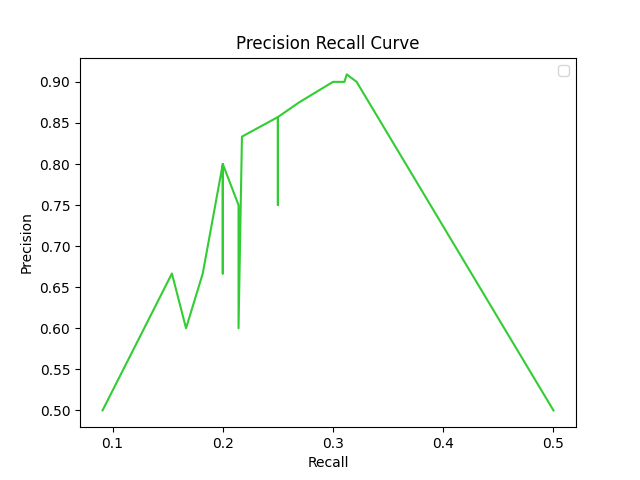
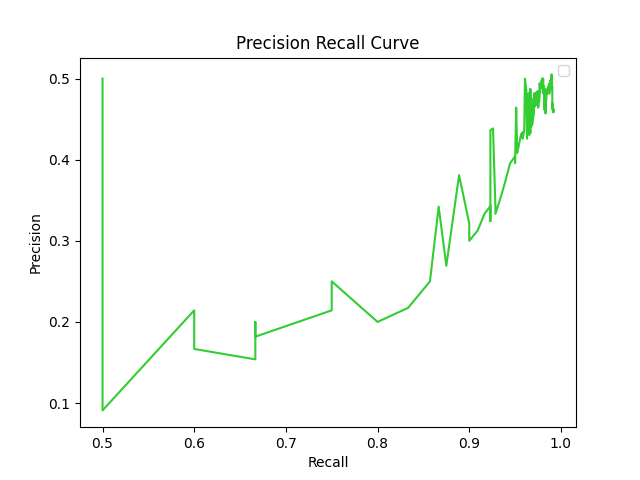
cleaned code and updated README.md

diff --git a/main.py b/main.py
@@ -29,8 +29,9 @@ def save_plot(img, filename):
     for ix, image in enumerate(images):
         ax = plt.subplot(int("11" + str(ix + 1)))
         ax.imshow(image)
-
-    plt.savefig(f'data/test_computed/{filename}')
+    if not os.path.isdir(args.dest):
+        os.makedirs(args.dest)
+    plt.savefig(f'{args.dest}/{filename}')
     plt.close()
 
 
@@ -94,6 +95,7 @@ def viola_jones(img, gray, left=True, right=True):
             cv2.rectangle(img, (x, y), (x + w, y + h), (0, 255, 0), 2)
             predicted["left"].append([x, y, x + w, y + h])
             cv2.putText(img, 'Left ear', (x, y - 10), cv2.FONT_HERSHEY_SIMPLEX, 0.3, (0, 255, 0), 1)
+
     if right:
         right_ear_cascade = cv2.CascadeClassifier('haarcascades/haarcascade_mcs_rightear.xml')
         right_ears = right_ear_cascade.detectMultiScale(gray, params["right"]["scale_step"],
@@ -148,7 +150,7 @@ def compare(img, annot_coords, predicted_coords):
 
 def plot_p_r(precision, recall):
     plt.title("Precision Recall Curve")
-    plt.plot(precision, recall, '-', color='limegreen')
+    plt.plot(recall, precision, '-', color='limegreen')
     plt.xlabel("Recall")
     plt.ylabel("Precision")
     plt.legend()
@@ -166,8 +168,7 @@ def run_on_miltiple(pth):
     global precisions, recalls, calculations
     for filename in os.listdir(pth):
         (filename, img, gray) = read_image("/".join([pth, filename]))
-
-        path_annot = f"data/testannot_rect/{filename}"
+        path_annot = f"{args.annot}/{filename}"
         (filename_annot, img_annot, gray_annot) = read_image(path_annot)
 
         annot_coords = get_bounding_boxes(img_annot)
@@ -178,12 +179,16 @@ def run_on_miltiple(pth):
         iou_scores = compare(img, annot_coords, predicted_coords)
         iou_scores_combined += iou_scores
         save_plot(img, filename)
-        precision = tp / (fp + tp)
+        if (fp + tp) == 0:
+            precision = 0
+        else:
+            precision = tp / (fp + tp)
+
         recall = tp / (fn + tp)
-        print(precision, recall)
         calculations.append((precision, recall))
         precisions.append(precision)
         recalls.append(recall)
+        print("Precision:", precision, "Recall:", recall)
 
     return iou_scores_combined
 
@@ -193,7 +198,7 @@ def run_on_one(pth, capture=False):
         capture_image()
     (filename, img, gray) = read_image(pth)
 
-    path_annot = f"data/testannot_rect/{filename}"
+    path_annot = f"{args.annot}/{filename}"
     (filename_annot, img_annot, gray_annot) = read_image(path_annot)
 
     annot_coords = get_bounding_boxes(img_annot)
@@ -248,26 +253,28 @@ params = {
     "left": {'scale_step': 1.0149, 'size': 3},
     "right": {'scale_step': 1.0199, 'size': 1}
 }
-
+global args
+args = None
 if __name__ == '__main__':
     arguments = str(sys.argv)
     parser = argparse.ArgumentParser()
-    parser.add_argument("-p", "--Path", default="data/test", help="Path to destination file or directory.")
-    parser.add_argument("--plot", default=False, action='store_true', help="Plot precision and recall curve.")
+    parser.add_argument("-src", default="data/test", help="path to data file or directory.")
+    parser.add_argument("-dest", default="data/test_computed", help="path to destinatnion directory.")
+    parser.add_argument("-annot", default="data/testannot_rect", help="path to directory of annotated images.")
+    parser.add_argument("-plot", default=False, action='store_true', help="plot precision and recall curve.")
     args = parser.parse_args()
 
-    if os.path.isdir(args.Path):
-        run_on_miltiple(args.Path)
+    if os.path.isdir(args.src):
+        run_on_miltiple(args.src)
         if args.plot:
-            calculations = sorted(calculations, key=lambda x: x[0])
+            calculations = sorted(calculations, key=lambda x: x[1])
             p = []
             r = []
-            for (prediction, recall) in calculations:
-                p.append(prediction)
+            for (precision, recall) in calculations:
+                p.append(precision)
                 r.append(recall)
-
             plot_p_r(p, r)
-    elif os.path.isfile(args.Path):
-        run_on_one(args.Path)
+    elif os.path.isfile(args.src):
+        run_on_one(args.src)
     else:
         parser.error('File or directory does not exist.')

diff --git a/README.md b/README.md
@@ -2,13 +2,20 @@
 
 ## Usage
 ```console
-python main.py -p "{path_to_dir_or_file}"
+usage: main.py [-h] [-src SRC] [-dest DEST] [-annot ANNOT] [-plot]
+
+optional arguments:
+  -h, --help    show this help message and exit
+  -src SRC      path to data file or directory.
+  -dest DEST    path to destinatnion directory.
+  -annot ANNOT  path to directory of annotated images.
+  -plot         plot precision and recall curve.
 ```
 
 ## Viola-Jones parameters
 These parameters were acquired by trying different values for scale step and size. 
 Values tested for scale step were between 1.005 and 2.0 with step of 0.005 and tested values for
-size were between 1 and 10 with step 1. Values were chosen based on average IOU (Intersection over Uniou) 
+size were between 1 and 10 with step 1. Values were chosen based on highest average IOU (Intersection over Union) 
 value.
 ```json
 {
